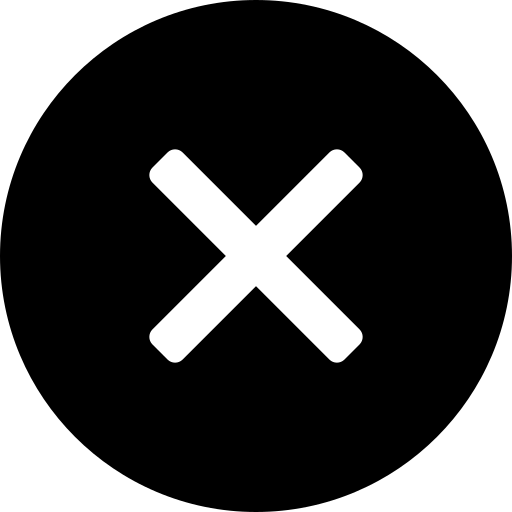
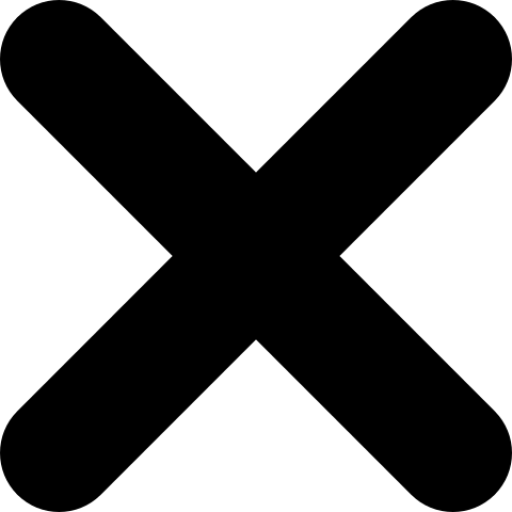
Login MyProfile MyVheicle Wizard1 Messages, nav.js changes and style

diff --git a/server/index.js b/server/index.js
@@ -5,33 +5,106 @@ const massive = require("massive");
 const session = require("express-session");
 const passport = require("passport");
 const GoogleStrategy = require("passport-google-oauth20").Strategy;
+const router = express.Router();
+const Auth0Strategy = require('passport-auth0');
 require("dotenv").config();
 const stripe = require("stripe")(process.env.STRIPE_SECRET_KEY);
 
 const {
-  SESSION_SECRET,
-  CLIENT_ID,
-  CLIENT_SECRET,
-  CALLBACK_URL,
-  CONNECTION_STRING
-} = process.env;
+    SESSION_SECRET,
+    DOMAIN,
+    CLIENT_ID,
+    CLIENT_SECRET,
+    CALLBACK_URL,
+    CONNECTION_STRING
+} = process.env
 
 massive(CONNECTION_STRING).then(db => {
-  app.set("db", db);
-});
+    // app.set stores info by putting it on a key:value pair
+    app.set('db', db);
+})
 
 const app = express();
-app.use(express.static(`${__dirname}/../build`));
+app.use( express.static( `${__dirname}/../build` ) );
 app.use(bodyParser.json());
-app.use(
-  session({
+app.use(session({
     secret: SESSION_SECRET,
     resave: false,
     saveUninitialized: true
-  })
-);
+}))
 
-// ---- PASSPORT SETUP ----
+// app.use(passport.initialize());
+// // stores user info in the session store/memory
+// // use req.session to access the person's session we are interacting with
+// app.use(passport.session());
+
+// passport.use(new Auth0Strategy({
+//     domain: DOMAIN,
+//     clientID: CLIENT_ID,
+//     clientSecret: CLIENT_SECRET,
+//     callbackURL: CALLBACK_URL,
+//     scope: 'openid email profile'
+//     // when the user authenticates, this is what we will get back
+// }, (accessToken, refreshToken, extraParams, profile, done) => {
+//     // this is where auth0 sends info back from google
+//     const db = app.get('db')
+//     // here, we are asking passport to retrieve the value of db, which is set above
+//     let { displayName, picture, id, emails } = profile;
+//     // console.log("this is the profile:", profile)
+//     // the id used here is the auth_id from the database
+//     // the profile contains email as emails: [ { value: 'fairfaxkatrina@gmail.com' } ]
+//     db.find_user([id]).then(user => {
+//         // console.log("this is the user:", user)
+//         // here, we query our sql database to see if there is a user with the passed in id
+//         // the info we are getting back is an object that is nested in an array
+//         if (user[0]) {
+//             done(null, user[0].id)
+//         } else {
+//             db.create_user([displayName, id, picture, emails[0].value]).then((createdUser) => {
+//                 done(null, createdUser[0].id)
+//             })
+//         }
+//     })
+// }));
+
+// passport.serializeUser((primaryKeyId, done) => {
+//     // the profile from above is an object that is added to the session store here
+//     done(null, primaryKeyId);
+// });
+
+// passport.deserializeUser(((primaryKeyId, done) => {
+//     // deserializeUser runs as middleware
+//     // goes into the session store, grabs any value tied to the session(profile) and injects info into the callback
+//     app.get("db").find_session_user([primaryKeyId]).then(user => {
+//         // whatever we pass out of deserializeUser get added to req.user
+//         done(null, user[0])
+//     })
+// }));
+
+// app.get('/auth', passport.authenticate('auth0'));
+// app.get('/auth/callback', passport.authenticate('auth0', {
+//     // this redirects the user back to the front end where they started the login process
+//     successRedirect: `${process.env.FRONTEND_URL}#/search`
+//     // user the hash symbol above because we are using Hashrouter
+// }))
+
+// app.get('/auth/user', (req, res) => {
+//     if (req.user) {
+//         res.status(200).send(req.user);
+//         // console.log("this is req.user:", req.user)
+//     } else {
+//         res.status(401).send('Unauthorized user');
+//     }
+// });
+
+// app.get('/auth/logout', (req, res) => {
+//     req.logOut();
+//     // this is a built in method in passport that kills the session and resets the user property
+//     res.redirect(process.env.FRONTEND_URL);
+// });
+
+
+// // ---- PASSPORT SETUP ----
 
 // initializing passport so we can us it
 app.use(passport.initialize());
@@ -127,7 +200,7 @@ app.get("/auth/logout", (req, res) => {
   res.redirect(process.env.FRONTEND_URL);
 });
 
-// ---- END OF PASSPORT SETUP ----
+// // ---- END OF PASSPORT SETUP ----
 
 //User
 app.get("/api/host/:id", ctrl.getHost);

diff --git a/src/components/Menu/MyProfile.js b/src/components/Menu/MyProfile.js
@@ -49,13 +49,15 @@ class MyProfile extends Component {
               <div>
                 <img alt='' src={this.props.user.user_pic} style={{ height: "130px", borderRadius: "50%", margin: '20px auto 50px auto', display: 'block' }} />
               </div>
-              <p>Name: {this.props.user.username}</p>
+              {/* <p>Name: {this.props.user.username}</p>
+              <hr /> */}
+              Name: <input type="username" className="input" name="username" value={this.state.username} onChange={e => { this.handleChange(e) }} />
               <hr />
               Username: <input type="username" className="input" name="username" value={this.state.username} onChange={e => { this.handleChange(e) }} />
               <hr />
               Email: <input type="email" className="input" name="email" value={this.state.email} onChange={e => { this.handleChange(e) }} />
               <hr />
-              Phonenumber: <input type="phonenumber" className="input" name="phonenumber" value={this.state.phonenumber} onChange={e => { this.handleChange(e); }} />
+              Phone Number: <input type="phonenumber" className="input" name="phonenumber" value={this.state.phonenumber} onChange={e => { this.handleChange(e); }} />
               <hr />
               <div>
                 <img src={cancel_icon} alt='' onClick = {() => {this.handleEdit()}} style={{height:'27px'}}/>
@@ -73,7 +75,7 @@ class MyProfile extends Component {
                 <hr/>
                 <div>Email:</div>
                 <hr/>
-                <div>Phonenumber:</div>
+                <div>Phone Number:</div>
                 <hr/>
                 <img style={{height: '22px'}} onClick = {() => {this.handleEdit()}} src={edit_icon} alt=''/>
               </div> 

diff --git a/src/components/Messages/messages.js b/src/components/Messages/messages.js
@@ -26,8 +26,8 @@ export default class Messages extends Component {
                 <Nav/>
                 <p>Messaging</p>
                 <div>
-                    <button className='smallbutton' onClick={() => { this.setState({ toggle: true }) }}>Lots Im asking about</button>
-                    <button className='smallbutton' onClick={() => { this.setState({ toggle: false }) }}>Lots Im hosting</button>
+                    <button className='smallbutton' onClick={() => { this.setState({ toggle: true }) }}>Lots I am interested in</button>
+                    <button className='smallbutton' onClick={() => { this.setState({ toggle: false }) }}>Lots Im renting out</button>
                     {this.state.toggle ? <div>{mappedmessages1}</div> : <div><p>Not a list</p></div>}
                 </div>
             </div>

diff --git a/src/App.css b/src/App.css
@@ -91,6 +91,8 @@ h1{
 }
 .input{
   border-top: none;
+  font-size: 14px;
+  font-weight: bold;
   height: 20px;
   width: 82%;
   border-radius: 5px;
@@ -171,7 +173,7 @@ p .input{
   width: 50px;
   height: 50px;
   box-shadow: 0px 0px 0px 0px;
-  background: var(--appgradient);
+  background: white;
 }
 .roundbutton:active{
   box-shadow: var(--bordercolor);
@@ -193,7 +195,7 @@ p .input{
   padding: 20px;
   width: 80%;
   text-align: left;
-  bcolor:linear-gradient( 0.2deg,  rgba(79,104,112,1) -13.8%, rgba(177,234,252,1) 100.2% );
+  background-image: linear-gradient( 0.2deg,  rgba(79,104,112,1) -13.8%, rgba(177,234,252,1) 100.2% );
 }
 
 /* LOGIN PAGE */
@@ -321,9 +323,11 @@ p .input{
 }
 
 
+
 /* WIZARD NAV */
 .wizardnav{
   margin-top: 50%;
+  color: black;
 }
 /* WIZARDS */
 .wizard{

diff --git a/src/components/Nav/nav.js b/src/components/Nav/nav.js
@@ -57,6 +57,7 @@ import mylistings_icon_white from './../Images/images/listing_icon_white.png'
                     <div onClick = {this.handlePopup} className = {this.state.popup ? 'barbox barbox1' : 'barbox'}>
                         <div className = {this.state.popup ? 'bar bar1' : 'bar'}></div> 
                         <div className = {this.state.popup ? 'bar bar2' : 'bar'}></div> 
+                        
                     </div>
                 </div >
                 <popup handlePopup={this.state.popup} />

diff --git a/src/components/Menu/List_space_Wizards/wizard1.js b/src/components/Menu/List_space_Wizards/wizard1.js
@@ -1,7 +1,7 @@
 import React, { Component } from 'react'
 import {Link} from 'react-router-dom'
 import './wizard.css'
-import cancel_icon from './../../../redux/reducer'
+import cancel_icon from './../../Images/images/cancel_icon.png'
 import rightarrow_icon from './../../Images/images/rightarrow_icon.png'
 import leftarrow_icon from './../../Images/images/leftarrow_icon.png'
 import {updateWizBuildingType} from './../../../redux/reducer'

diff --git a/src/components/Menu/MyVehicle.js b/src/components/Menu/MyVehicle.js
@@ -451,7 +451,7 @@ class MyVehicle extends Component {
                 />
               </p>
               <br />
-              <p className="ptag">Size: (click on a icon button)</p>
+              <p className="ptag">Size: (click on an icon button)</p>
               <br />
               <div style={{ padding: "10px" }}>
                 <img

diff --git a/src/router.js b/src/router.js
@@ -39,7 +39,7 @@ export default (
     <Route path="/listings" component={Listing} />
     <Route path="/checkout" component={Checkout} />
     <Route path="/chat" component={Chat} />
-    <Route path="/myListing/edit/:id" component={EditListing} />
+    {/* <Route path="/myListing/edit/:id" component={EditListing} /> */}
   
 
 

diff --git a/src/components/Login/login.js b/src/components/Login/login.js
@@ -10,7 +10,9 @@ export default function Login() {
         <a
           id="loginanimation"
           className="login animated zoomInDown"
+              // href="http://localhost:4000/auth/callback"
           href="http://localhost:4000/auth/google"
+             
         >
           <img
             alt=""
